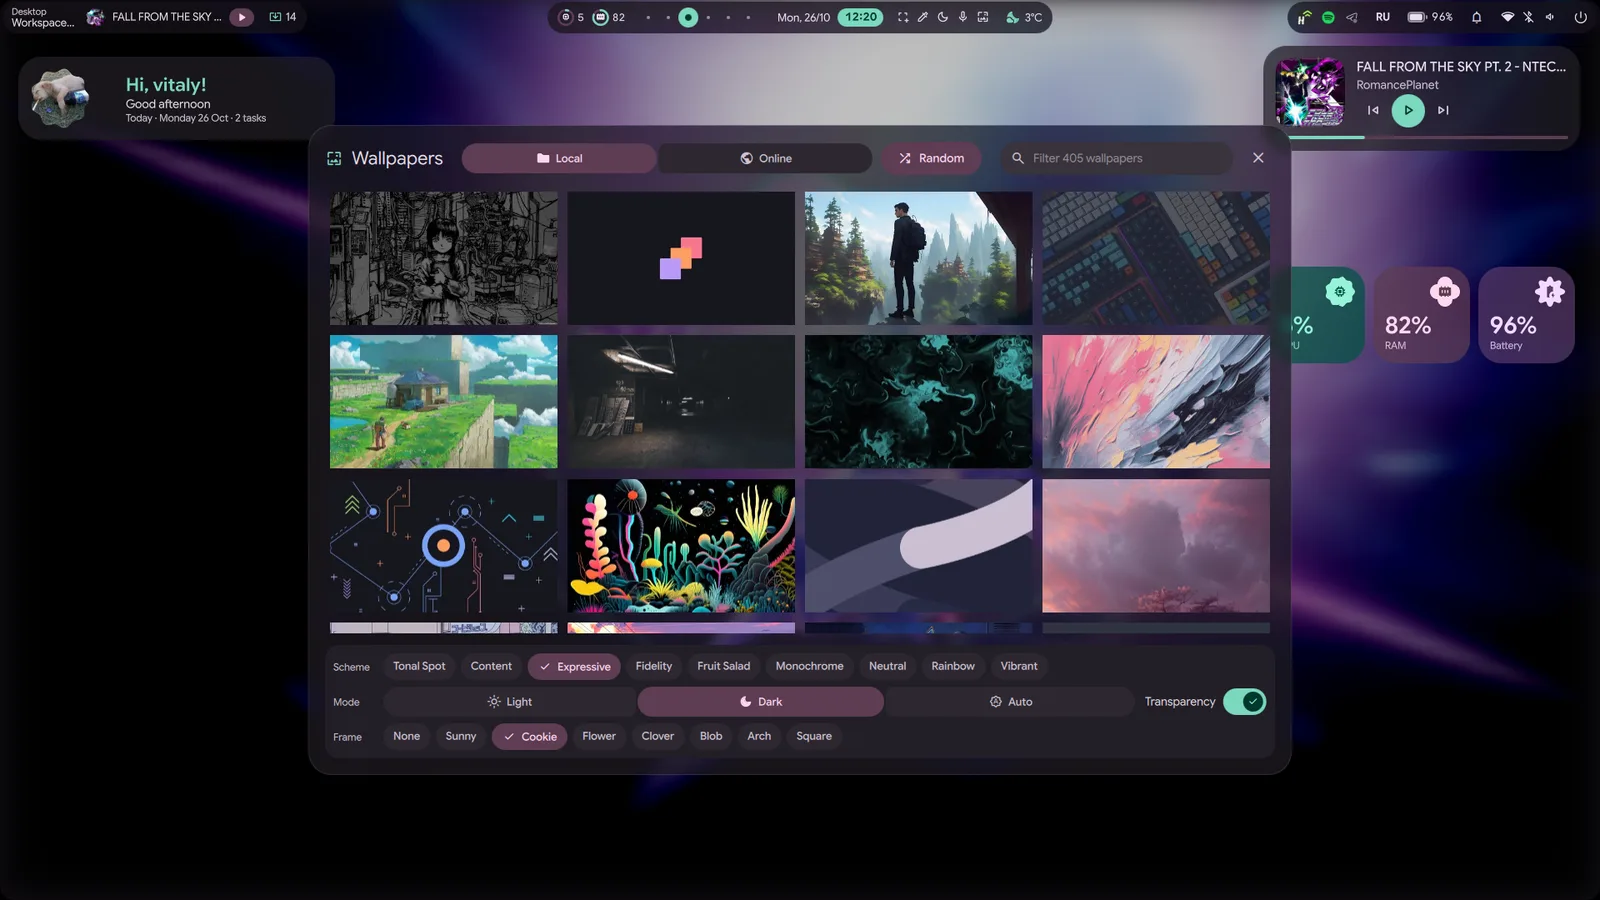
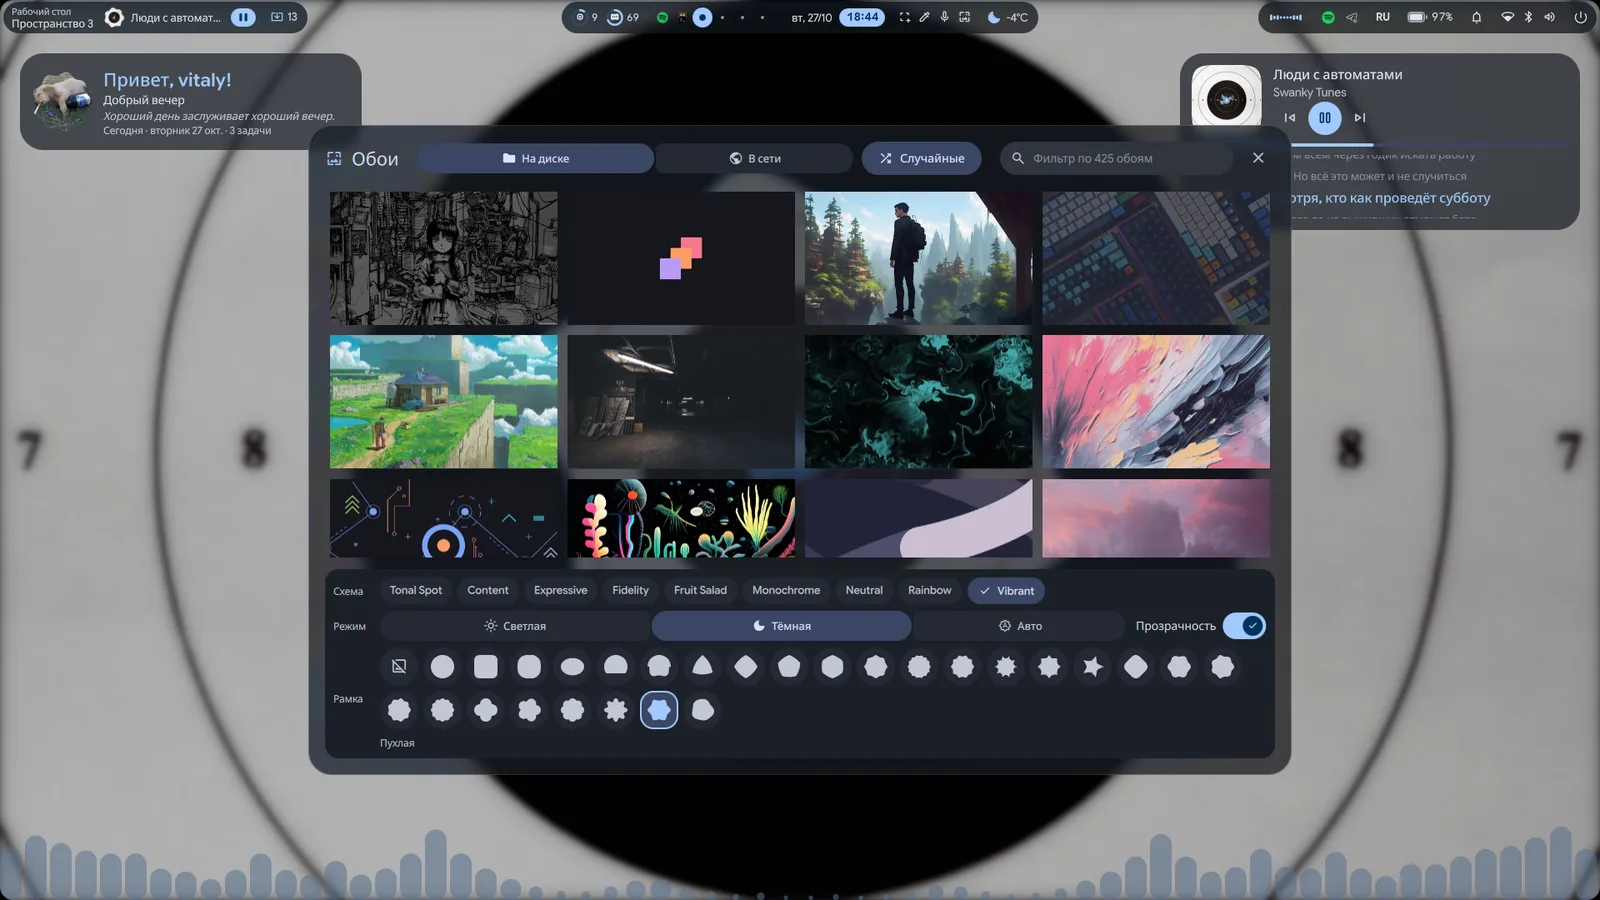
README: new screenshots (desktop, wallpapers with the frame picker), desktop edit mode and Wait Mode added

diff --git a/README.md b/README.md
@@ -55,9 +55,11 @@ and the audio spectrum is drawn by a single shader.
 | <img src="docs/screenshots/settings.webp" alt="Settings"> | <img src="docs/screenshots/claude.webp" alt="Claude palette"> |
 | **Settings** — every option, searchable from the launcher | **Claude palette** — ask anything, answers stream in |
 | <img src="docs/screenshots/wallpapers.webp" alt="Wallpaper picker"> | <img src="docs/screenshots/display-mode.webp" alt="Display mode"> |
-| **Wallpapers** — local and online, scheme, mode, frame | **Display mode** — duplicate or extend to a second screen |
+| **Wallpapers** — local and online, scheme, mode, 28 frames | **Display mode** — duplicate or extend to a second screen |
 | <img src="docs/screenshots/welcome.webp" alt="Welcome"> | <img src="docs/screenshots/session.webp" alt="Session screen"> |
 | **First-run welcome** — language, look and shortcuts | **Session screen** — lock, log out, suspend, reboot, power off |
+| <img src="docs/screenshots/desktop-edit.webp" alt="Desktop edit mode"> | <img src="docs/screenshots/wait-mode.webp" alt="Wait Mode"> |
+| **Desktop edit mode** — drag, scale and stretch widgets | **Wait Mode** — a locked screen with the player and the queue |
 
 ## Requirements
 
